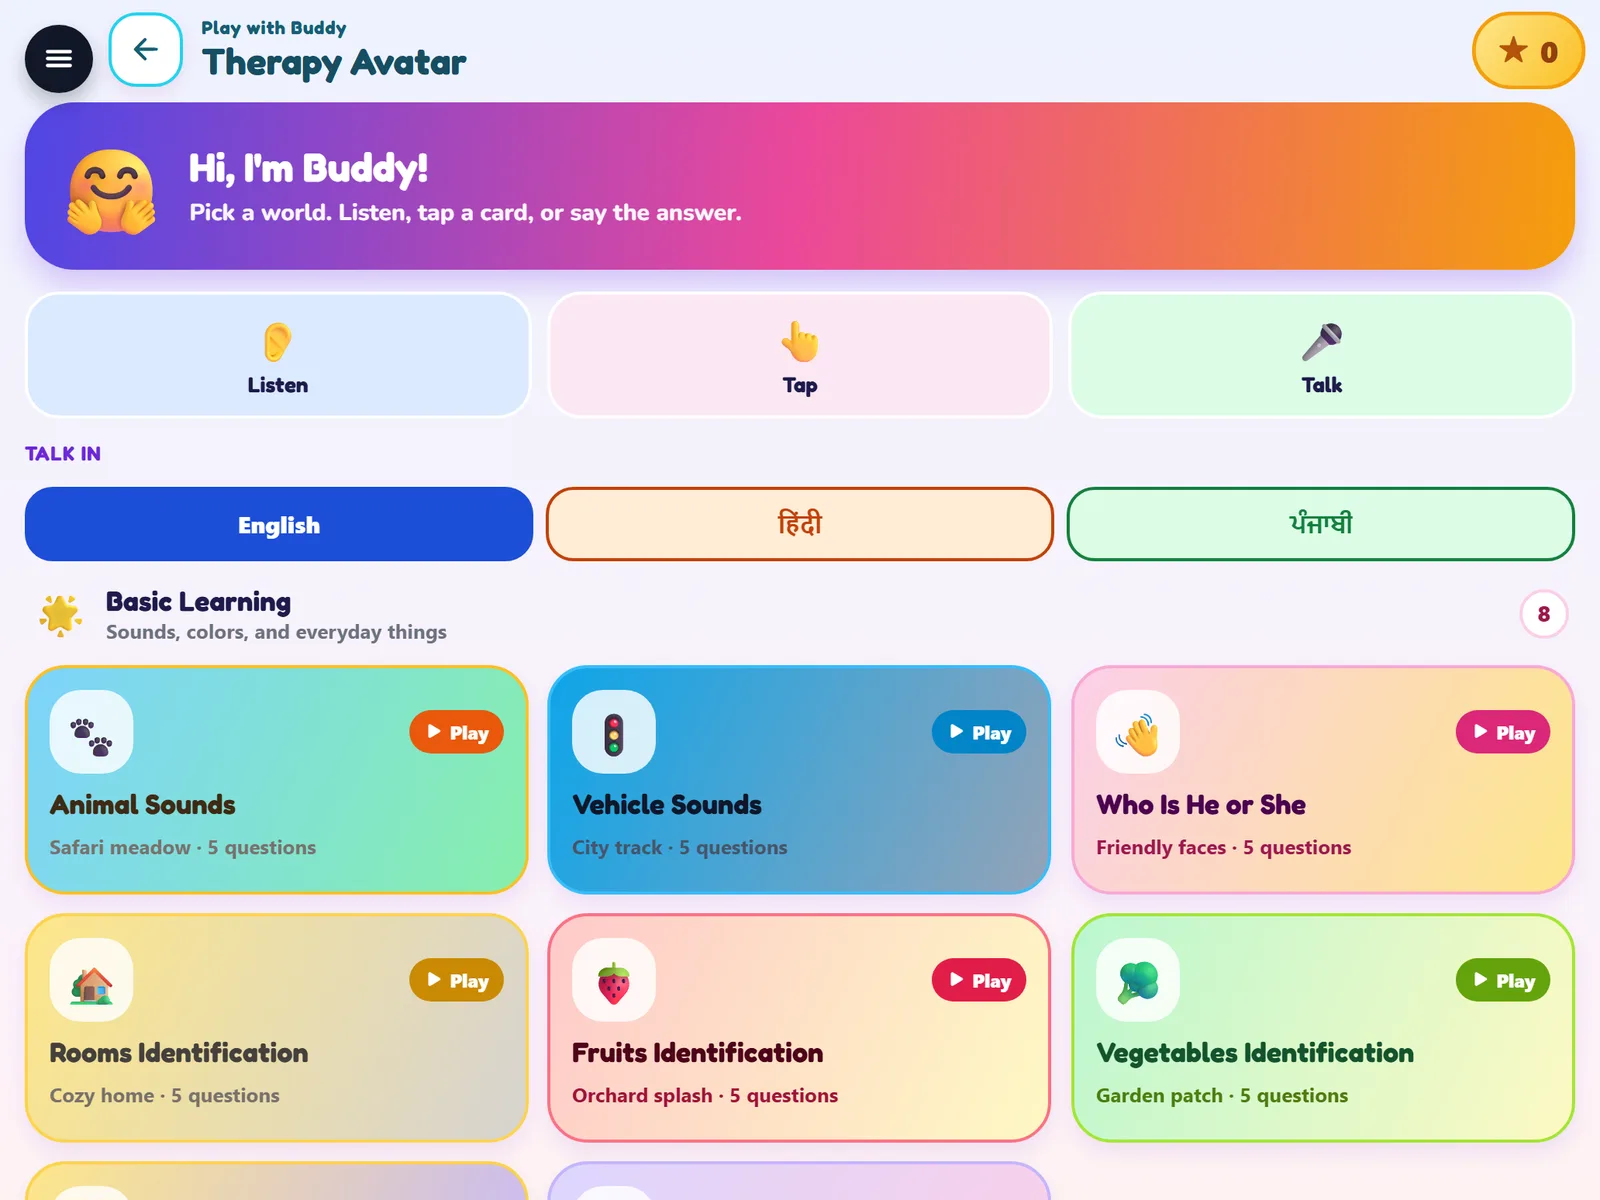
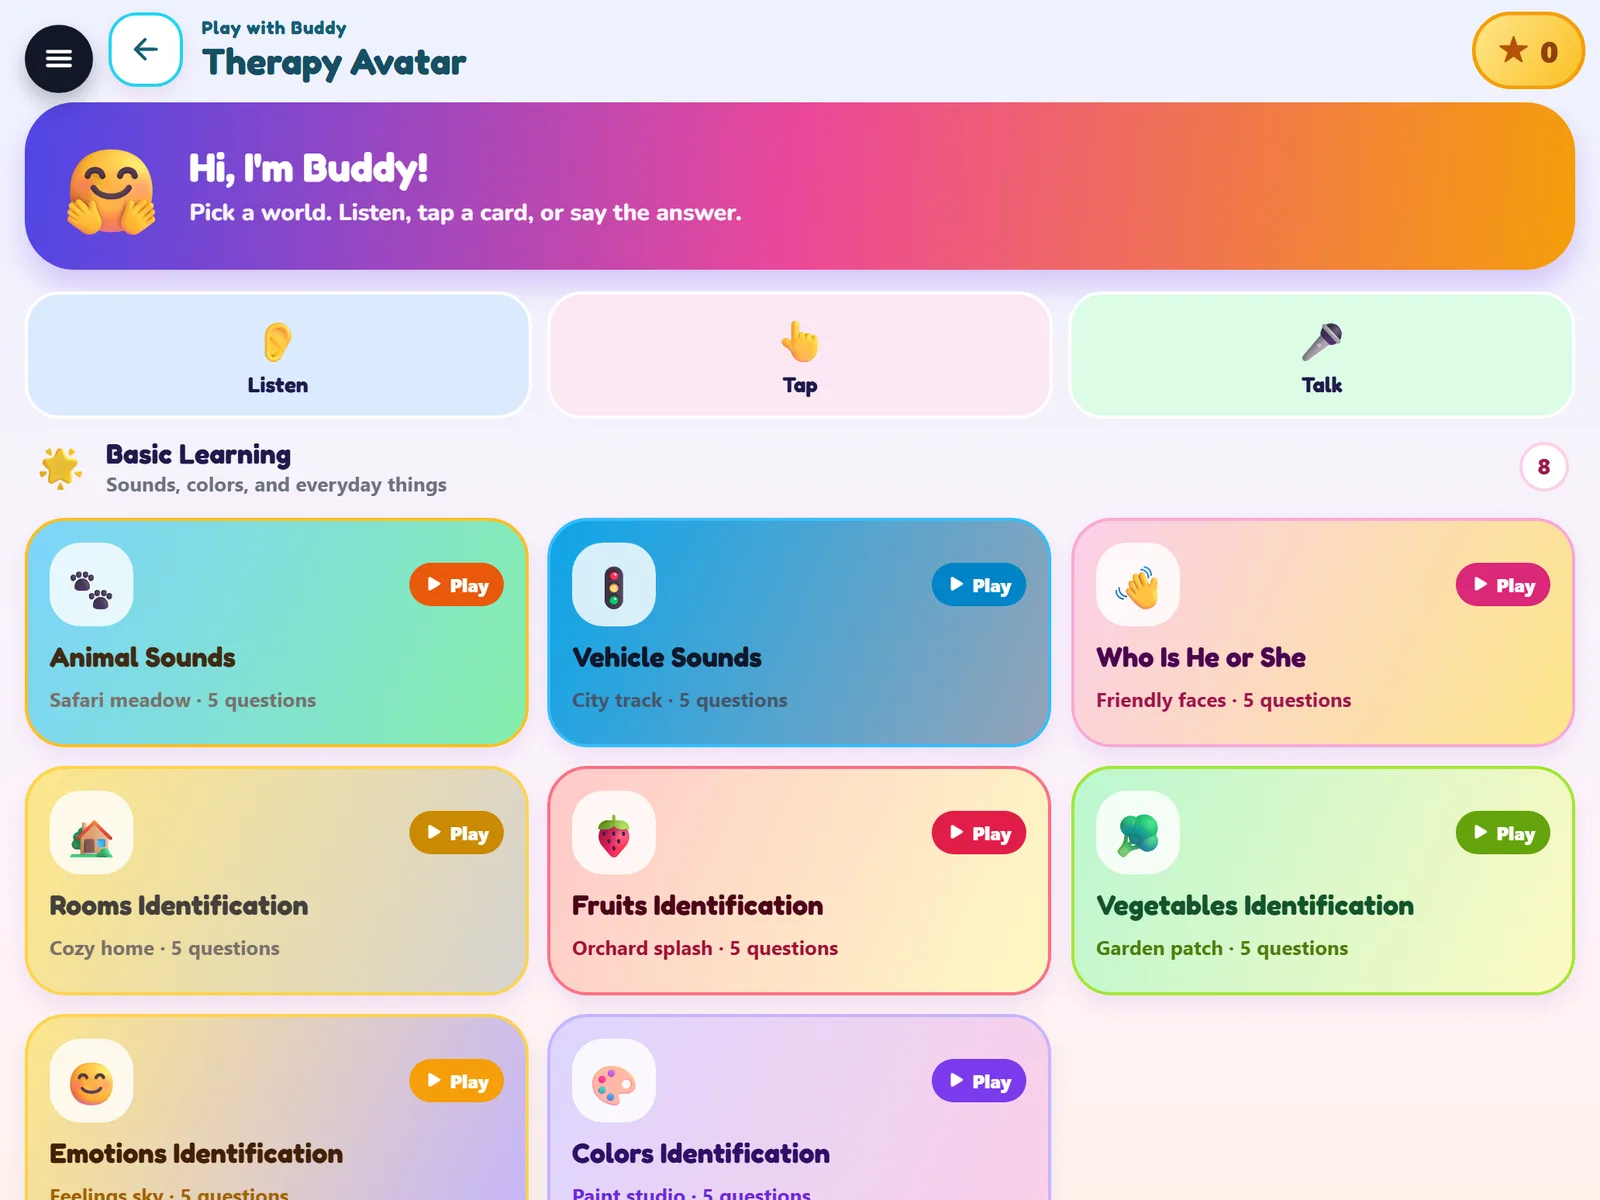
ghj

diff --git a/src/components/sections/home/what-is-aac.tsx b/src/components/sections/home/what-is-aac.tsx
@@ -1,0 +1,82 @@
+import { Hand, MessageCircle, Volume2 } from "lucide-react";
+import { Container } from "@/components/ui/container";
+import { SectionHeading } from "@/components/ui/section-heading";
+import { StaggerGroup, StaggerItem } from "@/components/motion/stagger";
+import { DeviceFrame, RealScreen, SCREENS } from "@/components/illustrations/device";
+
+/** The three words behind the acronym, in plain language. */
+const LETTERS = [
+  { letter: "A", word: "Augmentative", text: "Adds to the speech your child already has." },
+  { letter: "A", word: "Alternative", text: "Stands in for speech when words won't come." },
+  { letter: "C", word: "Communication", text: "So your child can ask, tell, share and be understood." },
+];
+
+const HOW = [
+  { icon: Hand, title: "Tap a picture", text: "Real photos of food, feelings, people and places." },
+  { icon: MessageCircle, title: "Build a sentence", text: "\"I want\" + \"apple\" becomes a full sentence." },
+  { icon: Volume2, title: "ARVIT speaks it", text: "A clear voice says it out loud for everyone to hear." },
+];
+
+/** Explains what AAC means for parents who have never heard the term. */
+export function WhatIsAac() {
+  return (
+    <section id="what-is-aac" className="bg-zigzag-sky scroll-mt-24 py-16 sm:py-20">
+      <Container className="max-w-[1280px]">
+        <div className="grid grid-cols-1 items-center gap-12 lg:grid-cols-[minmax(0,1.15fr)_minmax(0,0.85fr)] lg:gap-16">
+          <div>
+            <SectionHeading
+              eyebrow="New to AAC? Start here"
+              title="What Is AAC?"
+              accent="AAC"
+              accentColor="blue"
+              description="AAC means any way of communicating that doesn't depend on speech: picture cards, signs, or a talking device like ARVIT. Millions of children and adults use it every day."
+            />
+
+            <dl className="mt-8 grid grid-cols-1 gap-3 sm:grid-cols-3">
+              {LETTERS.map((item) => (
+                <div key={item.word} className="rounded-[20px] border border-[#d9d9de] bg-white p-5">
+                  <dt className="flex items-baseline gap-1">
+                    <span className="font-display text-4xl leading-none text-[#007ad1]">{item.letter}</span>
+                    <span className="font-display text-lg text-black">{item.word.slice(1)}</span>
+                  </dt>
+                  <dd className="mt-2 text-base leading-snug text-black/70">{item.text}</dd>
+                </div>
+              ))}
+            </dl>
+
+            <h3 className="font-display mt-10 text-2xl text-[#15102b]">How ARVIT does it</h3>
+            <StaggerGroup className="mt-4 grid grid-cols-1 gap-4 sm:grid-cols-3">
+              {HOW.map((step, index) => (
+                <StaggerItem key={step.title} className="rounded-[20px] border border-[#d9d9de] bg-white p-5">
+                  <span className="flex items-center gap-3">
+                    <span className="flex size-10 shrink-0 items-center justify-center rounded-full bg-[#e0f5f4]">
+                      <step.icon className="size-5 text-[#1f7a71]" strokeWidth={2} aria-hidden />
+                    </span>
+                    <span className="text-sm font-semibold uppercase text-[#28958a]">Step {index + 1}</span>
+                  </span>
+                  <span className="font-display mt-3 block text-xl leading-tight text-black">{step.title}</span>
+                  <span className="mt-1 block text-base leading-snug text-black/70">{step.text}</span>
+                </StaggerItem>
+              ))}
+            </StaggerGroup>
+
+            <p className="mt-8 rounded-[20px] border-l-4 border-[#28958a] bg-white px-5 py-4 text-base text-black/80">
+              <strong className="font-display text-[#15102b]">Will AAC stop my child from talking?</strong> No. Research
+              shows AAC does not hold speech back, and many children say more words once they have a reliable way to be
+              understood.
+            </p>
+          </div>
+
+          <figure className="mx-auto w-full max-w-[420px]">
+            <DeviceFrame portrait>
+              <RealScreen {...SCREENS.aacTall} />
+            </DeviceFrame>
+            <figcaption className="mt-4 text-center text-sm text-black/60">
+              Real screen: the ARVIT picture board
+            </figcaption>
+          </figure>
+        </div>
+      </Container>
+    </section>
+  );
+}

diff --git a/src/components/sections/home/hero.tsx b/src/components/sections/home/hero.tsx
@@ -9,7 +9,7 @@ const PRODUCT = CATALOG_PRODUCTS[0];
 /** Only product facts that are true today — no unverified numbers. */
 const POINTS = [
   { dot: "bg-[#e11d48]", label: "Real-photo symbol boards" },
-  { dot: "bg-[#007ad1]", label: "5 Indian languages" },
+  { dot: "bg-[#007ad1]", label: "Multiple languages" },
   { dot: "bg-[#28958a]", label: "Eye control" },
   { dot: "bg-[#ff9d3c]", label: "Weekly report to your phone" },
 ];
@@ -58,8 +58,8 @@ export function Hero() {
             <HeroScene />
             <FloatChip
               icon={Languages}
-              title="Speaks 5 Indian Languages"
-              text="हिंदी · ਪੰਜਾਬੀ · தமிழ் · తెలుగు"
+              title="Tap A Picture, Hear It Spoken"
+              text="Words for every moment"
               tint="bg-[#d9d3f5]"
               className="-top-5 right-2 flex animate-float sm:-right-8"
             />
@@ -76,7 +76,16 @@ export function Hero() {
             <p className="pill">For children &amp; parents</p>
             <h1 className="text-display mt-5 text-[#15102b]">ARVIT AAC Device</h1>
             <p className="mt-3 text-lg text-black/70">
-              Every child deserves to be heard. In English, Hindi, Punjabi, Tamil or Telugu.
+              Every child deserves to be heard. Your child taps a picture and ARVIT says it out loud.
+            </p>
+            <p className="mt-2 text-base text-black/60">
+              <abbr title="Augmentative and Alternative Communication" className="font-semibold text-[#28958a] no-underline">
+                AAC
+              </abbr>{" "}
+              = Augmentative and Alternative Communication: tools that help children talk when speech is hard.{" "}
+              <a href="#what-is-aac" className="font-semibold text-[#28958a] underline-offset-4 hover:underline">
+                Learn more
+              </a>
             </p>
 
             <ul className="mt-7 flex flex-wrap gap-2.5">

diff --git a/src/components/sections/home/pricing.tsx b/src/components/sections/home/pricing.tsx
@@ -9,7 +9,7 @@ import { CATALOG_PRODUCTS, formatProductPrice } from "@/lib/commerce/products";
 const PRODUCT = CATALOG_PRODUCTS[0];
 
 const INCLUDED = [
-  "Real-photo symbol boards in 5 Indian languages",
+  "Real-photo symbol boards in multiple languages",
   "Therapy Buddy learning games and Type & Speak",
   "One-tap caregiver alert and eye control",
   "Weekly report to your phone, works offline",
@@ -17,7 +17,7 @@ const INCLUDED = [
 ];
 
 const GENERIC = ["Built to entertain, not to talk", "Communication apps cost extra", "No view of progress", "You set it all up alone"];
-const ARVIT = ["Built for communication", "Talks in 5 Indian languages", "One-tap alert to caregivers", "Our team helps you start"];
+const ARVIT = ["Built for communication", "Talks in multiple languages", "One-tap alert to caregivers", "Our team helps you start"];
 
 /** Navy band: the buy card, then the "regular tablet vs ARVIT" pair. */
 export function Pricing() {
@@ -75,7 +75,7 @@ export function Pricing() {
             </li>
           </ul>
           <p className="mt-4 text-center text-sm text-black/60">
-            Inclusive price in INR.{" "}
+            All-inclusive price.{" "}
             <Link href={PRODUCT.href} className="font-semibold text-[#28958a] underline-offset-4 hover:underline">
               See everything it does
             </Link>

diff --git a/src/components/sections/home/showcase.tsx b/src/components/sections/home/showcase.tsx
@@ -59,7 +59,7 @@ const TABS: Tab[] = [
     titleRest: " With Buddy",
     screen: <RealScreen {...SCREENS.buddy} />,
     real: true,
-    chipTop: { icon: Languages, title: "English, हिंदी, ਪੰਜਾਬੀ", text: "Play in your language", tint: "bg-[#ffeba4]" },
+    chipTop: { icon: Languages, title: "Play In Your Language", text: "More than one to choose from", tint: "bg-[#ffeba4]" },
     chipBottom: { icon: Sparkles, title: "Listen, Tap Or Talk", text: "Three ways to answer", tint: "bg-[#d9d3f5]" },
   },
   {
@@ -117,8 +117,8 @@ export function Showcase() {
 
         <div className="relative mx-auto mt-10 w-full max-w-[860px]">
           {/* Keys remount the chips and screen on tab change so the CSS enter animation replays. */}
-          <Chip key={`${active.id}-top`} chip={active.chipTop} className="-right-6 top-[5%] lg:-right-28" />
-          <Chip key={`${active.id}-bottom`} chip={active.chipBottom} className="-left-6 bottom-[7%] lg:-left-28" />
+          <Chip key={`${active.id}-top`} chip={active.chipTop} className="-right-6 top-[5%] xl:-right-28" />
+          <Chip key={`${active.id}-bottom`} chip={active.chipBottom} className="-left-6 bottom-[7%] xl:-left-28" />
 
           <DeviceFrame>
             <div key={active.id} className="animate-in fade-in slide-in-from-right-4 h-full duration-300">

diff --git a/src/lib/data/faq.ts b/src/lib/data/faq.ts
@@ -8,6 +8,18 @@ export type FaqItem = {
 export const FAQ: FaqItem[] = [
   {
     audience: "both",
+    question: "What does AAC mean?",
+    answer:
+      "AAC stands for Augmentative and Alternative Communication. It covers any tool that helps a person communicate when speech is hard or not yet there, from picture cards to talking devices. Augmentative means it adds to the speech a child already has; alternative means it can stand in for speech completely. ARVIT is a speech-generating AAC device: your child taps pictures or types, and the device speaks the words out loud.",
+  },
+  {
+    audience: "both",
+    question: "Will using AAC stop my child from learning to talk?",
+    answer:
+      "No. This is the most common worry, and research does not support it. Studies show AAC does not hold back speech, and many children say more words once they have a reliable way to be understood.",
+  },
+  {
+    audience: "both",
     question: "What is the ARVIT AAC Device?",
     answer:
       "One device for your family. Your child communicates with symbol boards, text-to-speech, and phrase prediction. You see progress, home practice, and safety controls on the same device.",

diff --git a/src/components/sections/catalog/product-catalog.tsx b/src/components/sections/catalog/product-catalog.tsx
@@ -33,7 +33,7 @@ export function ProductCatalog() {
         <Container className="max-w-[1400px]">
           <div className="grid items-end gap-8 border-b border-[#15102b]/10 pb-10 lg:grid-cols-[minmax(0,1fr)_280px]">
             <p className="max-w-xl text-sm leading-relaxed text-[#15102b]/65">
-              Inclusive INR. One device — not a child product and an adult product.
+              All-inclusive price. One device — not a child product and an adult product.
             </p>
             <div className="relative hidden h-40 overflow-hidden rounded-3xl bg-[#e0f5f4] lg:block">
               <Image
@@ -102,7 +102,7 @@ function CatalogEntry({
             <p className="font-display mt-3 text-4xl font-medium tracking-tight text-[#15102b]">
               {formatProductPrice(product)}
             </p>
-            <p className="mt-2 text-xs text-[#15102b]/55">Inclusive price in INR</p>
+            <p className="mt-2 text-xs text-[#15102b]/55">All-inclusive price</p>
           </div>
         </div>
 

diff --git a/src/lib/constants.ts b/src/lib/constants.ts
@@ -3,14 +3,14 @@ export const SITE = {
   legalName: "Arvit Healthtech Private Limited",
   tagline: "One AAC Device for children and parents.",
   description:
-    "The ARVIT AAC Device gives non-speaking children a voice in English, Hindi, Punjabi, Tamil and Telugu: real-photo symbol boards, eye control, a one-tap caregiver alert, therapy games and a weekly report for parents.",
+    "The ARVIT AAC Device gives non-speaking children a voice in multiple languages: real-photo symbol boards, eye control, a one-tap caregiver alert, therapy games and a weekly report for parents.",
   url: "https://www.arvit.ai",
   email: "hello@arvit.ai",
   supportEmail: "support@arvit.ai",
   /** TODO: add the real support number and full office address. The phone row is hidden while empty. */
   phone: "" as string,
   phoneHref: "",
-  address: "India",
+  address: "",
 } as const;
 
 export type NavLink = {

diff --git a/src/app/page.tsx b/src/app/page.tsx
@@ -1,7 +1,7 @@
 import { Hero } from "@/components/sections/home/hero";
 import { Highlights, TrustRow } from "@/components/sections/home/highlights";
 import { Showcase } from "@/components/sections/home/showcase";
-import { MadeForIndia } from "@/components/sections/home/made-for-india";
+import { WhatIsAac } from "@/components/sections/home/what-is-aac";
 import { FeatureGrid } from "@/components/sections/home/feature-grid";
 import { DemoSection } from "@/components/sections/home/demo-section";
 import { Compare } from "@/components/sections/home/compare";
@@ -23,7 +23,7 @@ export default function HomePage() {
       <TrustRow />
       <Highlights />
       <Showcase />
-      <MadeForIndia />
+      <WhatIsAac />
       <FeatureGrid />
       <DemoSection />
       <Compare />

diff --git a/src/components/illustrations/device.tsx b/src/components/illustrations/device.tsx
@@ -79,7 +79,7 @@ export function RealScreen({ src, alt, priority = false }: { src: string; alt: s
 export const SCREENS = {
   aac: { src: "/screens/aac-board-landscape.webp", alt: "ARVIT AAC board with real-photo symbols, quick words and an Alert button" },
   aacTall: { src: "/screens/aac-board-portrait.webp", alt: "ARVIT AAC board with categories, quick words and favourites" },
-  buddy: { src: "/screens/therapy-buddy-landscape.webp", alt: "ARVIT Therapy Buddy games with English, Hindi and Punjabi options" },
+  buddy: { src: "/screens/therapy-buddy-landscape.webp", alt: "ARVIT Therapy Buddy: listen, tap or talk learning games" },
   buddyTall: { src: "/screens/therapy-buddy-portrait.webp", alt: "ARVIT Therapy Buddy: basic learning and social skills games" },
 } as const;
 

diff --git a/src/app/checkout/page.tsx b/src/app/checkout/page.tsx
@@ -216,7 +216,7 @@ export default function CheckoutPage() {
                 type="tel"
                 required
                 autoComplete="tel"
-                placeholder="+91 98765 43210"
+                placeholder="Your phone number"
               />
             </div>
             <div className="space-y-2">
@@ -269,7 +269,7 @@ export default function CheckoutPage() {
                 {status === "booking" ? "Booking…" : "Book now, pay later"}
               </Button>
               <p className="text-center text-xs text-muted-foreground">
-                Secure payments by Razorpay · UPI, cards, net banking & wallets
+                Secure payments by Razorpay · Cards, bank transfer & wallets
               </p>
             </div>
 

diff --git a/src/components/sections/home/highlights.tsx b/src/components/sections/home/highlights.tsx
@@ -7,7 +7,7 @@ import { CATALOG_PRODUCTS, formatProductPrice } from "@/lib/commerce/products";
 /** Three plain facts in place of award logos — add real badges/press here when you have them. */
 const TRUST = [
   { icon: WifiOff, tint: "bg-[#ffeba4]", title: "Works Offline", text: "Talks anywhere, no Wi-Fi needed" },
-  { icon: Languages, tint: "bg-[#dbf0f9]", title: "5 Indian Languages", text: "English, Hindi, Punjabi, Tamil, Telugu" },
+  { icon: Languages, tint: "bg-[#dbf0f9]", title: "Multiple Languages", text: "Boards that speak more than one language" },
   { icon: BellRing, tint: "bg-[#ffd9d2]", title: "One-Tap Caregiver Alert", text: "WhatsApp call to both caregivers" },
 ];
 

diff --git a/src/app/layout.tsx b/src/app/layout.tsx
@@ -36,13 +36,12 @@ export const metadata: Metadata = {
   },
   description: SITE.description,
   keywords: [
-    "AAC device India",
-    "Hindi AAC app",
-    "Punjabi AAC",
-    "Tamil AAC",
-    "Telugu AAC",
+    "AAC device",
+    "what is AAC",
+    "augmentative and alternative communication",
+    "speech generating device",
     "communication device for non-verbal child",
-    "speech device for autism India",
+    "speech device for autism",
     "eye gaze AAC",
     "therapy tablet",
     "AAC tablet",
